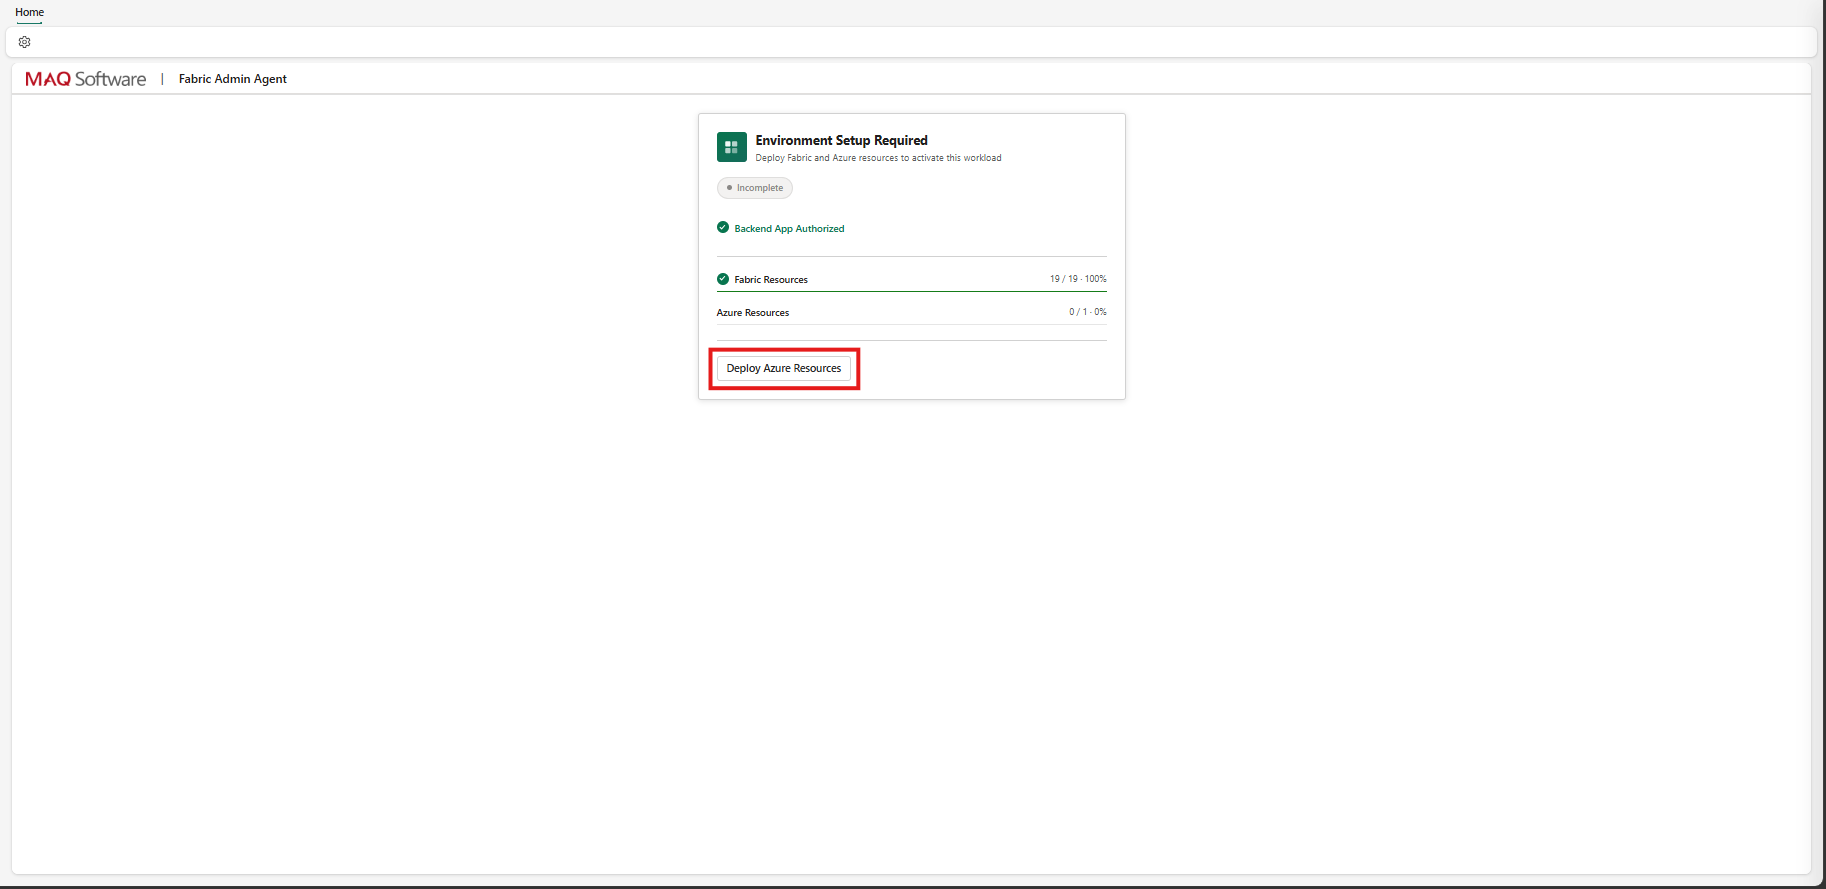
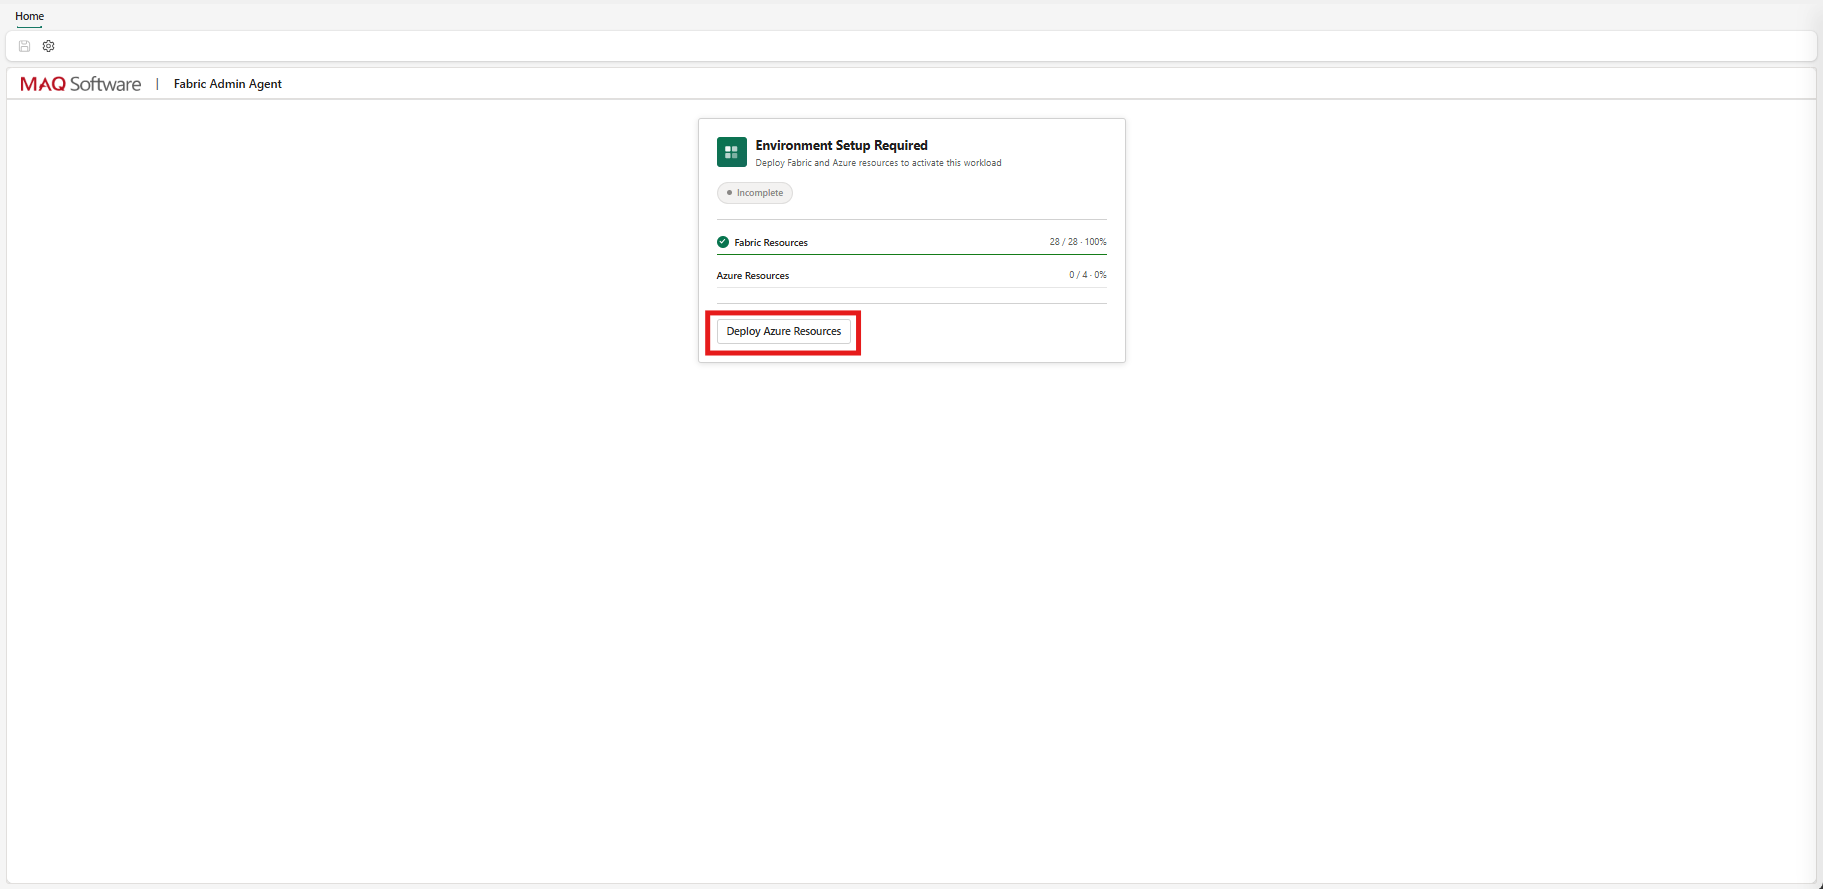
docs: update workload and Azure deployment setup steps for new authorization and deployment UI

Changed region(s): [[0.0, 0.0, 1.0, 1.0], [0.5529, 0.3037, 0.6144, 0.3645], [0.5837, 0.243, 0.6144, 0.2733]]

diff --git a/docs/setup/02-deploy-workload.md b/docs/setup/02-deploy-workload.md
@@ -18,9 +18,9 @@
 
 ![Create item dialog box](../assets/images/setup/createitemdialoguebox.png)
 
-The item is created in its initial state.
+The item is created and shows the **Backend App Authorization Required** card until the Backend app is authorized in [Step 5](#step-5-authorize-the-backend-application).
 
-![Fabric Admin Agent initial state after workload creation](../assets/images/setup/initialstate.png)
+![Backend App Authorization Required card with Check Again and Authorize Backend App buttons](../assets/images/setup/initialstate.png)
 
 ---
 
@@ -42,13 +42,16 @@ Upon creation, a popup appears requesting permissions for the **Frontend Service
 
 The Backend app registration requires admin consent and **must be performed by** a **Global Administrator**, **Privileged Role Administrator**, **Application Administrator**, or **Cloud Application Administrator**.
 
-**1.** The admin navigates to the Backend app authorization screen within the workload setup.
+**1.** On the **Backend App Authorization Required** card in the workload item (see [Step 3](#step-3-create-the-fabric-admin-agent-workload-item)), click **Authorize Backend App**. A Microsoft sign-in window opens.
 
-![Backend app consent dialog](../assets/images/setup/backendappconsent.png)
+**2.** Complete the consent prompt:
 
-**2.** The admin reviews and grants the requested API permissions.
+- **If you hold one of the admin roles above**, review the requested permissions and accept them. Consent is granted immediately.
+- **If you don't**, Microsoft shows a **Need admin approval** page for the Backend app. Select **Have an admin account? Sign in with that account** to sign in as an admin, or select **Return to the application without granting consent** and ask an admin to complete this step.
 
-![Initial state after backend sign-in](../assets/images/setup/initialstatebackendsignin.png)
+![Need admin approval page for the Backend app, shown to a user without an admin role](../assets/images/setup/backendappconsent.png)
+
+**3.** After consent is granted, click **Check Again** on the card. The card is replaced by the **Environment Setup Required** card, which shows the deployment buttons used in Step 6.
 
 > **Important:** Both the Frontend SPN approval (Step 4) and Backend app authorization (Step 5) must be completed before proceeding to Step 6.
 
@@ -62,9 +65,9 @@ Once both SPN approvals are complete:
 
 ![Fabric deployment button](../assets/images/setup/fabric_deploy.png)
 
-**2.** Wait for the deployment to complete. This process takes approximately **20–25 minutes**.
+**2.** Wait for the deployment to complete. The status changes to **In Progress**, and the **Fabric Resources** row tracks how many items have been deployed. This process takes approximately **20–25 minutes**.
 
-![Fabric deployment in progress](../assets/images/setup/fabric_deployment_progress.png)
+![Fabric deployment in progress, with the Deploying Fabric button disabled and the status set to In Progress](../assets/images/setup/fabric_deployment_progress.png)
 
 **3.** Confirm all Fabric artifacts have been successfully deployed. See [Fabric Artifacts reference](../architecture/03-fabric-artifacts.md) for the full list of items this deploys (Lakehouse, notebooks, pipelines, semantic model, report, KQL database, connections, etc.).
 

diff --git a/docs/setup/03-deploy-azure.md b/docs/setup/03-deploy-azure.md
@@ -6,11 +6,11 @@
 
 ## Step 7: Deploy Azure Resources (Key Vault, Automation Account, Runbooks)
 
-**1.** Click the **Deploy Azure Resources** button.
+**1.** Once **Fabric Resources** shows 100%, click the **Deploy Azure Resources** button.
 
-![Deploy Azure Resources button](../assets/images/setup/azure_deployment_button.png)
+![Deploy Azure Resources button, with Fabric Resources at 100% and Azure Resources at 0 of 4](../assets/images/setup/azure_deployment_button.png)
 
-**2.** Provide the following inputs when prompted:
+**2.** In the **Deploy Azure Resources** dialog, provide the following inputs. These values are saved to the KQL `ConfigTable` and used when creating the Key Vault.
 
 | Parameter | Description |
 |---|---|
@@ -19,9 +19,9 @@
 
 > **Note:** The user must have **Contributor** role on the target Azure Resource Group.
 
-![Azure deployment subscription and resource group input dialog](../assets/images/setup/tenant_id_dialog_box.png)
+![Deploy Azure Resources dialog with Azure Subscription ID and Resource Group Name fields](../assets/images/setup/tenant_id_dialog_box.png)
 
-**3.** Confirm the deployment. This step deploys a Key Vault, an Automation account, and two runbooks.
+**3.** Click **Deploy**. This step deploys a Key Vault, an Automation account, and two runbooks, and the **Azure Resources** row tracks these four resources.
 
 ![Azure deployment confirmation dialog](../assets/images/setup/azure_deployment_confirmation.png)
 
@@ -78,6 +78,7 @@ A custom ARM template deployment provisions the Azure Function App used for capa
 
 **5.** Verify that all Azure resources have been successfully deployed. The following resources should be visible in the Azure Resource Group:
 - Azure Key Vault
+- Azure Automation Account and two runbooks (from Step 7)
 - Azure Function App
 - App Service Plan
 - Azure Storage Account
